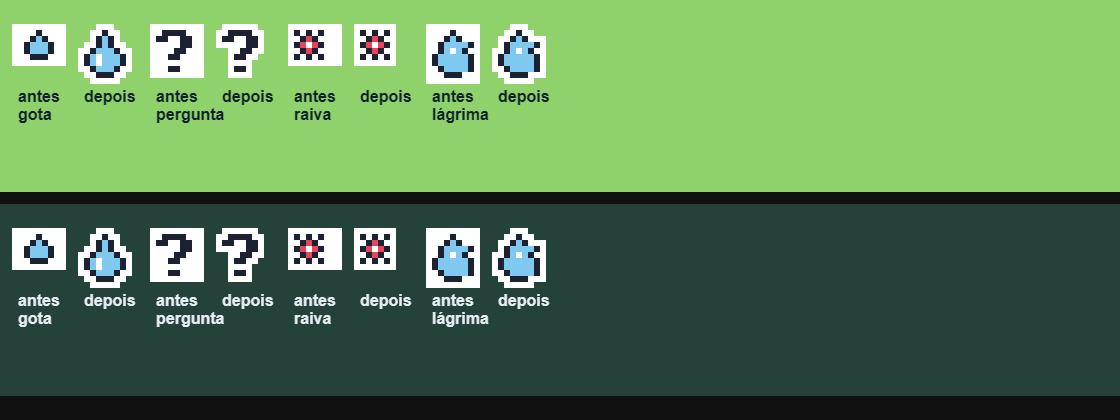
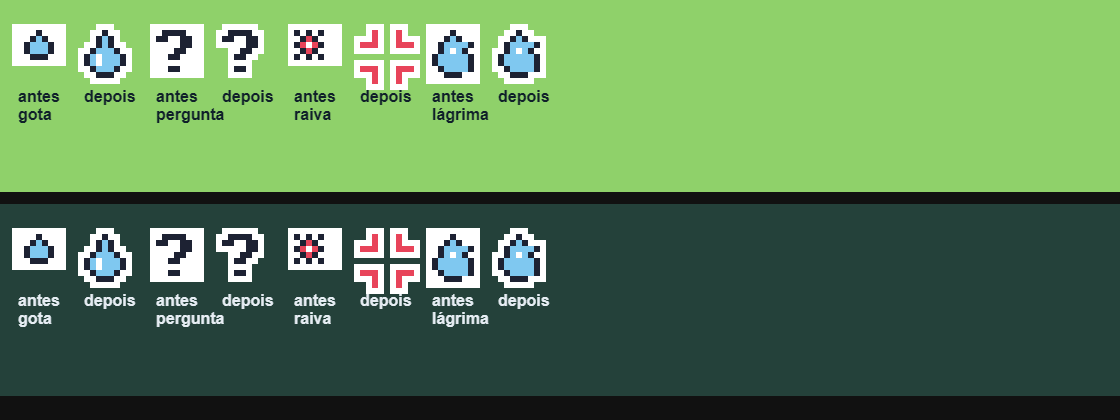
UX_TELA_PET: a marca de raiva dos animes no lugar do borrao 7x5

Changed region(s): [[0.3125, 0.5262, 0.375, 0.7119], [0.3125, 0.0619, 0.375, 0.2167]]

diff --git a/web/app/src/grades.ts b/web/app/src/grades.ts
@@ -18,7 +18,8 @@ export const S: Record<string, string[]> = {
   zz: ["kkkk...", "...k...", "..k....", ".k..kkk", "kkkk.k.", "....k..", "....kkk"],
   exclam: ["..kkk..", "..kyk..", "..kyk..", "..kyk..", "..kkk..", "..kyk..", "..kkk.."],
   pergunta: [".kkkk..", "kk..kk.", "....kk.", "...kk..", "..kk...", ".......", "..kk..."],
-  raiva: ["k.k.k..", ".krk...", "kr.rk..", ".krk...", "k.k.k.."],
+  /* a marca de raiva dos animes: quatro cantos vermelhos com a quina virada para o centro (antes era um borrao 7x5 descentrado) */
+  raiva: ["..r...r..", "..r...r..", "rrr...rrr", ".........", ".........", ".........", "rrr...rrr", "..r...r..", "..r...r.."],
   nota: ["...kkk.", "...k.k.", "...k...", "...k...", ".kkk...", "kkkk...", ".kk...."],
   carne: ["....kk.", "...kwwk", ".kkkkk.", "kddddk.", "kddddk.", ".kkkk.."],
   brilho: ["...k...", "...y...", ".k.y.k.", "kyyyyyk", ".k.y.k.", "...y...", "...k..."],

diff --git a/web/app/test/grades_emote.test.ts b/web/app/test/grades_emote.test.ts
@@ -30,6 +30,18 @@ describe("a gota em lagrima", () => {
   });
 });
 
+describe("a marca de raiva", () => {
+  it("e quadrada, simetrica nos dois eixos e vazia no centro", () => {
+    const g = S.raiva, n = g.length;
+    expect(g.every(l => l.length === n)).toBe(true);
+    g.forEach((l, y) => {
+      expect(l).toBe([...l].reverse().join(""));
+      expect(l).toBe(g[n - 1 - y]);
+    });
+    expect(g[(n - 1) / 2][(n - 1) / 2]).toBe(".");
+  });
+});
+
 describe("o contorno de adesivo", () => {
   it("segue o desenho: os cantos da caixa ficam vazios, em volta de cada pixel fica pintado", () => {
     const { ctx, pintados, cores } = ctxFalso();

diff --git a/docs/TAREFA_V3_UX_TELA_PET.md b/docs/TAREFA_V3_UX_TELA_PET.md
@@ -651,5 +651,7 @@ medo da mão e do esforço do cocô. Ela é só vista; o motor, o save e os gaba
 - o retângulo dá lugar ao `contornoGrade`, um contorno branco de 1 unidade que segue o desenho, como o contorno do sprite do pet. O
   contorno vale para todos os emotes de grade (gota, interrogação, raiva, lágrima, x, espiral).
 
+Depois, o Matheus disse que "o da raiva ainda tá feio", e a grade `raiva` virou a marca de raiva dos animes: quatro cantos vermelhos de 9 × 9 com a quina virada para o centro.
+
 O antes e o depois estão em `docs/pranchas/ux-gota/gota_antes_depois.png`. As medidas (7 × 8 e o contorno de 1 unidade) são PROPOSTO,
 SEM FONTE.
